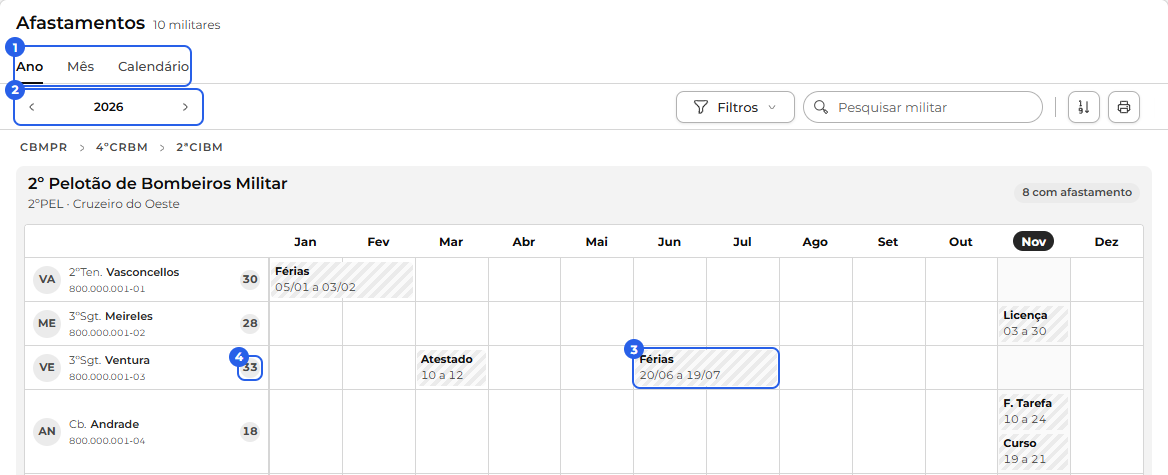
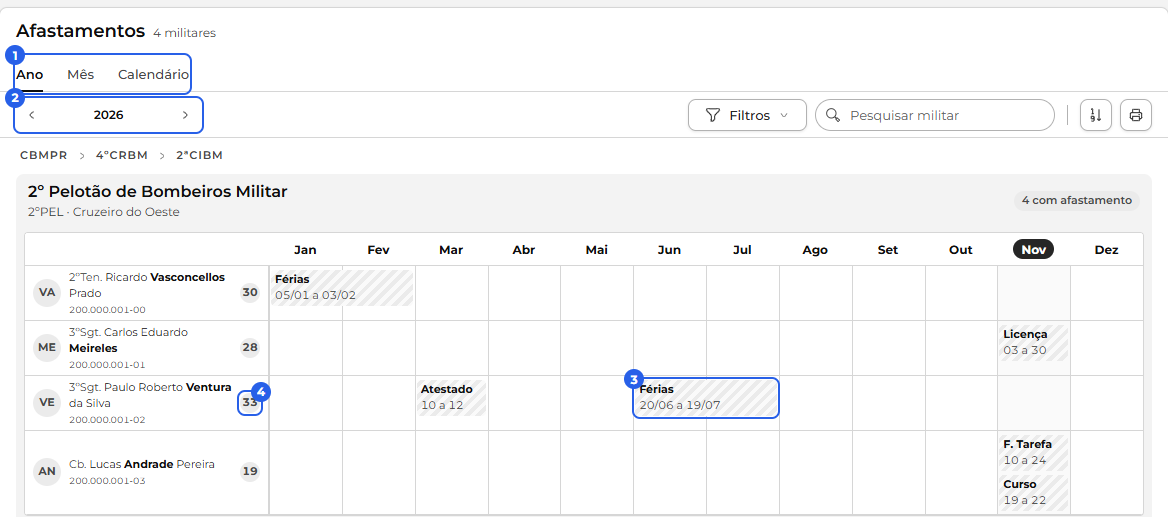
1

diff --git a/programador.html b/programador.html
@@ -2358,7 +2358,7 @@
                 <li>O respiro do topo é fixo, acima da rolagem (<code>.pagina-corpo--camada</code> com <code>padding-top</code> da variável <code>--respiro-topo</code>; o <code>.pagina-corpo-rolagem</code> não tem), então a trilha cola sempre no mesmo ponto. Com a árvore à mostra, o componente baixa esse respiro para <strong>8px</strong> (regra <code>:has()</code> em <code>geral-arvore-unidades.css</code>): 10px da linha de cima até o texto da trilha e 10px dele até o primeiro bloco; as outras abas da mesma camada seguem com 16px.</li>
                 <li><strong>Usuários:</strong> cada militar é uma <code>.linha-militar</code> (<code>.usuario-item</code>) num bloquinho: graduação + nome, o identificador na coluna (CPF, RG, telefone ou e-mail; 112px) e os selos no fim (128px: correção pendente e a situação, "Ativo" <code>--sucesso</code> ou "Férias até DD/MM" <code>--alerta</code>), vindos do efetivo (<code>buscar_efetivo</code>), ou o aviso <code>.usuario-vazio</code> ("Nenhum militar com os filtros atuais.") quando a unidade tem gente mas os filtros não deixam ninguém; unidade sem ninguém fica só com o título. Os filtros de graus e situação ficam no botão Filtros (árvore de caixas com o "Todos" acima de uma divisória, grupos em sanfona e o estado parcial, reusando <code>.caixa-selecao</code> e <code>.arvore-seta</code>), mais a busca, que marca ou filtra. No celular (bloco do fim do <code>usuarios-cards.css</code>), a linha vira duas (grade): graduação + nome e os selos em cima, o identificador embaixo, na largura toda (quebra se for comprido, como o e-mail); altura mínima do toque (<code>--toque-altura-celular</code>, 44px), sem as larguras mínimas das colunas; o nome completo (Exibir) quebra a linha em vez de cortar.</li>
                 <li>Folgas › Equipe usa a mesma linha (o saldo no fim); Trocas › Todas e Histórico põem os seus itens em bloquinhos ou cartões no bloco. A Antiguidade usa os bloquinhos com título (ver Peças de cada tela).</li>
-                <li><strong>Afastamentos</strong> (16/11/2026; <code>css/afastamentos.css</code>): no Ano e no Mês, a árvore vai na <strong>largura toda</strong> (<code>.afastamentos-arvore</code>: sem a largura de leitura, <code>min-width: min-content</code>) e, quando a grade não cabe, rola para o lado <strong>por dentro</strong> do corpo (<code>overflow-x: auto</code> no <code>.pagina-corpo-rolagem</code>), nunca a página; dentro de cada bloco, a grade da unidade (ver Grade da escala). No Calendário, o calendário fica no lugar do corpo da árvore (<code>#afastamentos-calendario</code>), com a trilha e o seletor da árvore no alto. Com o rodapé largo à vista, o corpo ganha a folga dele embaixo (49px, <code>.afastamentos-corpo</code>). <strong>No celular</strong>, o Ano e o Mês são a lista: a <code>.linha-militar</code> (<code>.afastamentos-item</code>) com o militar no alto e, embaixo, um afastamento do período por linha (<code>.afastamentos-item-pilha</code> e <code>-linha</code>, 4px entre elas, alinhadas pela esquerda, o texto quebra em vez de cortar), com o selo dos dias.</li>
+                <li><strong>Afastamentos</strong> (16/11/2026; <code>css/afastamentos.css</code>): no Ano e no Mês, a árvore vai na <strong>largura toda</strong> (<code>.afastamentos-arvore</code>: sem a largura de leitura, <code>min-width: min-content</code>) e, quando a grade não cabe, rola para o lado <strong>por dentro</strong> do corpo (<code>overflow-x: auto</code> no <code>.pagina-corpo-rolagem</code>), nunca a página; dentro de cada bloco, a grade da unidade (ver Grade da escala). No Calendário, o calendário fica no lugar do corpo da árvore (<code>#afastamentos-calendario</code>), com a trilha e o seletor da árvore no alto. Com o rodapé largo à vista, o corpo ganha a folga dele embaixo (49px, <code>.afastamentos-corpo</code>). <strong>No celular</strong>, o Ano e o Mês são a lista: a <code>.linha-militar</code> (<code>.afastamentos-item</code>) com o militar no alto e, embaixo, um afastamento do período por linha (<code>.afastamentos-item-pilha</code> e <code>-linha</code>, 4px entre elas, alinhadas pela esquerda, o texto quebra em vez de cortar), com o selo dos dias. Desde 25/11/2026, cada militar fica separado do próximo por uma linha fina (<code>border-top: 1px solid var(--borda)</code>, sem o raio), com 8px em cima e embaixo, e o nome de quem não tem afastamento fica no meio da altura de toque (<code>align-content: center</code>, 44px); o militar é o posto e o nome completo, com o de guerra em negrito (ver A grade dos Afastamentos), e o nome comprido quebra embaixo do posto (<code>.linha-militar-pessoa</code> em bloco); o afastamento vem em <code>--texto-suave</code> e o selo dos dias fica à direita, numa coluna (<code>justify-content: space-between</code>).</li>
               </ul>
             </div>
           </section>
@@ -2439,7 +2439,7 @@
                 <li><strong>Militares:</strong> linhas = militares, colunas = os dias do mês todo (do dia 1º ao último, desde 15/11/2026; as setas andam de mês em mês). Cada unidade escolhida é um bloco cinza com a linha-título em cima (nome completo + cidade, no cinza) e os militares numa tabela branca dentro; o título recolhe e abre os militares (por antiguidade). A linha do militar tem o avatar de iniciais (<code>--fundo-medio</code> + <code>--texto-suave</code>) + graduação + nome de guerra e, abaixo, o CPF (9px, a exceção da microetiqueta). Coluna do militar fixa à esquerda (244px, com o selo dos dias), cabeçalho dos dias fixo (hoje num círculo escuro, fim de semana sombreado). <strong>Sombra da coluna parada</strong> (15/11/2026): com a grade rolada para o lado, uma faixa de 16px (<code>::after</code>) colada à direita do canto, de cada linha do militar e do rótulo dos totais (o título da unidade fica sem, porque o nome dele passa da coluna), com <code>--sombra-coluna</code>; aparece com a classe <code>.escala-mil--rolada</code> (opacidade em 0.15s ease-out, some em 0.1s; parada no <code>prefers-reduced-motion</code>). Cada dia = <code>minmax(72px, 1fr)</code> (15/11/2026; antes, 60px), a largura do selo com o ícone e o horário numa linha só, dentro da célula; as colunas não têm número fixo (<code>grid-auto-columns</code> + <code>grid-auto-flow: column</code>), e o que não cabe rola para o lado dentro da grade. Camadas internas de 1 a 6. No celular, a coluna do militar tem 136px (o CPF numa linha só), sem o avatar, e cada dia, o mesmo <code>minmax(72px, 1fr)</code> do computador: os dias rolam para o lado, e o nome fica.</li>
                 <li>Célula do Militares: de serviço = chip de destaque (<code>.escala-mil-servico</code>, <code>--fundo-contraste</code> + <code>--texto-invertido</code>) com o ícone da origem (<code>.escala-mil-servico-origem</code>, 11px, em todo horário desde 15/11/2026: o mesmo do Mês, pela origem de cada horário; no trocado, o da troca; na página Sobreaviso, o telefone <code>.escala-mil-servico-sobreaviso</code> no mesmo lugar) + hora de início + ícone de seta (<code>icone-seta-direita-longa</code>) + fim, sem "h" (vários empilhados na disponibilidade quebrada), com recuo <code>0 4px</code> e vão de 2px; os números descem 1px (<code>margin-top: 2px</code>), e a tinta deles fica no meio do selo, na linha da seta e do ícone; afastado = chip listrado "FÉR" (<code>.escala-mil-afast</code>, <code>title</code> "Férias até DD/MM"); o dia de autorização de viagem (22/11/2026) = o mesmo chip, "VIA", sem as faixas e com a borda fina por dentro (<code>.escala-mil-afast--viagem</code>: <code>box-shadow: inset 0 0 0 1px var(--borda-forte)</code>; molde <code>#tpl-escala-mil-viagem</code>, só com o filtro dela); folga = vazia. Ao pé de cada unidade, a linha "Efetivo de serviço" (quantos de serviço por dia). A busca no canto direito filtra por nome e graduação (sem acento), esconde quem não casa e a unidade sem ninguém, revela as recolhidas e esconde os totais durante a busca; sem resultado, "Nenhum militar encontrado.". A Legenda do Militares mostra as amostras já com o ícone (Serviço, Extrajornada e Trocado) e o grupo <strong>Origem do serviço</strong>, o mesmo do painel do dia.</li>
                 <li><strong>Selo dos dias do Militares</strong> (15/11/2026; <code>.escala-mil-pessoa-dias</code>, números pelo <code>escalas-militares-dias.js</code>): à direita do nome, encostado (<code>margin-left: auto</code>), um círculo de 20px (<code>border-radius: 50%</code>, o mesmo do número do dia do cabeçalho), fundo <code>--fundo-medio</code> e número <code>--texto-suave</code> (o cinza do avatar, para não competir com os horários escuros), 11px em negrito com números da mesma largura; cabe "88" e mostra o 0. Diz em quantos dias do mês o militar tem um horário à vista que não é riscado. O botão Filtros vale nesta aba (escondido no Sobreaviso e nos Estágios): os horários e os afastamentos das situações desmarcadas somem, e o selo e a linha "Efetivo de serviço" contam só o que ficou. Na Legenda da aba, o grupo "Militar" usa a mesma classe na amostra.</li>
-                <li><strong>A grade dos Afastamentos</strong> (16/11/2026; a barra do Ano e a borda tracejada desde 22/11/2026; <code>css/afastamentos.css</code>, por cima das peças do Militares, <code>escalas-militares.css</code>): a mesma linha do militar (coluna de 244px com as iniciais, o grau, o nome, o CPF e o selo dos dias), que abre o painel dele (<code>.afastamentos-pessoa</code>: hover <code>--fundo-suave</code>, escolhida <code>--fundo-medio</code>, achada pela busca em <code>--fundo-contraste</code> com o texto <code>--texto-invertido</code>). <strong>Ano:</strong> 12 colunas de no mínimo 72px; o cabeçalho preso abaixo do título do bloco; o nome do mês é um botão (<code>.afastamentos-mes-nome</code>, 12px, peso 700, <code>--raio-total</code>, hover <code>--fundo-medio</code>), o de hoje no escuro (<code>--fundo-contraste</code> e <code>--texto-invertido</code>), com a coluna em <code>--fundo-suave</code>. A célula (<code>.afastamentos-celula</code>, 40px por faixa mais 4px, sem folga por dentro) fica embaixo das barras e só é clicável para quem administra o militar (<code>--clicavel</code>). Cada afastamento é uma <strong>barra</strong> (a mesma do Mês, abaixo) do primeiro ao último mês que ele toca no ano, na linha <code>.afastamentos-linha-ano</code>, com o nome e as datas inteiras (<code>textoDatas</code>: só a data de outro ano leva o ano, "23/11 a 01/01/2027"); o que fica todo num mês só mostra só os dias, porque o mês é a coluna ("10 a 12"). O selo (<code>.afastamentos-selo</code>) é o listrado do afastado (faixas de 4px em <code>--fundo-suave</code> e <code>--fundo-medio</code>, a -45°), <code>--raio-pequeno</code>, com o nome (11px, peso 700, <code>--texto-forte</code>, corta com reticências) e as datas (11px, <code>--texto-suave</code>, números tabulares; as que não cabem, como a de um mês só que vem de outro ano, cortam com reticências e ficam inteiras na dica); o que não foi salvo leva a <strong>borda tracejada</strong> da Escala, por dentro (<code>outline: 2px dashed var(--texto-forte)</code>, <code>outline-offset: -2px</code>; nunca no <code>::after</code>, que é o da dica), menos no hover e com a caixa aberta nele, que têm a borda deles. <strong>A autorização de viagem</strong> (22/11/2026; <code>.afastamentos-selo--viagem</code>): o mesmo selo <strong>sem o listrado</strong>, com a borda fina por dentro (<code>box-shadow: inset 0 0 0 1px var(--borda-forte)</code>; não salva, a borda fina e a tracejada juntas) e o ícone do mapa antes do nome (<code>.afastamentos-selo-icone</code>, 10px, <code>margin-right</code> 4px, um pixel abaixo da linha); no calendário, a linha <code>.linha-escalado--viagem</code> com o ícone à mostra (a do afastado esconde os ícones). Os <strong>Destinos</strong> (molde <code>#tpl-afastamento-destinos</code>, na caixa 2 e no painel): a lista <code>.afastamento-destinos</code> (coluna, gap 8px), cada destino numa linha <code>.afastamento-destino</code> (o campo <code>.campo-entrada</code> que estica e, ao lado, o X <code>.botao-discreto</code> com <code>icone-fechar</code> 14px, o mesmo das partes do horário; a lixeira fica só no alto, para a autorização inteira) e o <code>.botao</code> Adicionar destino que não estica (<code>.afastamento-destinos-adicionar</code>, 8px acima); sem destino, a borda vermelha do <code>.campo--erro</code> e a nota de sempre. <strong>Mês</strong> (<code>.afastamentos-grade--mes</code>): os dias em colunas de no mínimo 28px (o mês inteiro cabe a 1366 sem rolar), o dia do cabeçalho com a sigla em cima do número (molde <code>#tpl-escala-mil-dia</code>: hoje no círculo escuro, fim de semana sombreado). No Mês, a barra mostra as datas inteiras, sempre com o dia e o mês (<code>textoDatas</code> com o <code>anoCurto</code>: só a data de outro ano leva o ano, com 2 dígitos, "18/12 a 14/02/27"; em janeiro de 2027, "18/12/26 a 14/02"); a de 3 dias, a 1366, corta com reticências. A barra (<code>.afastamentos-barra</code>, o mesmo selo, no Ano e no Mês, pelo <code>desenharBarras</code>; a linha <code>.afastamentos-linha-ano</code> ou <code>-mes</code> com <code>position: relative</code>) fica por cima das células, em <code>position: absolute</code> na grade da linha, da coluna do primeiro ao último dia ou mês (<code>grid-column: var(--barra-coluna) / span var(--barra-dias)</code>; no Ano, <code>--barra-dias</code> conta os meses), com 36px de altura e 2px de folga de cada lado; a coluna do militar passa por cima dela ao rolar. Dois que se cruzam (no Ano, os que tocam o mesmo mês) vão em faixas de 40px (<code>--barra-faixa</code>), e a linha cresce uma faixa por afastamento (<code>--faixas</code>); as quatro são dado da tela. A barra clicável ganha o contorno de 1px <code>--foco</code> no hover; no Mês, a de 1 ou 2 dias (<code>--curta</code>) esconde o nome e os dias, que ficam na dica. <strong>Calendário:</strong> o <code>geral-calendario-mes</code> da Escala com <code>unidadesPorDia</code>; em cada dia, o bloquinho da unidade (<code>.escala-calendario-unidade.afastamentos-bloco</code>; para quem não administra, <code>--leitura</code>, sem o hover) com a linha de cada afastado (<code>.afastamentos-linha</code>, a <code>.linha-escalado--afastamento</code> da Escala com 20px): sem riscar e sem os ícones, o nome em <code>--texto</code> e o nome do afastamento à direita em <code>--texto-forte</code>; hover com o contorno de 1px <code>--foco</code>; a achada pela busca no escuro da Escala, sem o listrado; a que não foi salva com a borda tracejada (a mesma do selo, fora do hover e da caixa aberta).</li>
+                <li><strong>A grade dos Afastamentos</strong> (16/11/2026; a barra do Ano e a borda tracejada desde 22/11/2026; <code>css/afastamentos.css</code>, por cima das peças do Militares, <code>escalas-militares.css</code>): a mesma linha do militar (coluna de 244px com as iniciais, o grau, o nome, o CPF e o selo dos dias), que abre o painel dele. O nome é o <strong>nome completo</strong> (25/11/2026), em peso 400, com o <strong>nome de guerra em negrito</strong> (<code>.afastamentos-nome-guerra</code>, peso 700, <code>--texto-forte</code>, molde <code>#tpl-afastamentos-nome-guerra</code>, preenchido pelo <code>preencherNome</code> do <code>afastamentos-grade.js</code>, que acha o de guerra dentro do completo pelas palavras inteiras, sem diferença de maiúscula; sem ele dentro, fica só o de guerra); o grau e o nome correm como uma frase (<code>.escala-mil-pessoa-topo</code> em bloco, 11px) e o que não cabe passa para a linha de baixo, embaixo do grau, nunca cortado; na linha achada pela busca, o negrito também vai para o <code>--texto-invertido</code>. A linha do militar (<code>.afastamentos-pessoa</code>: hover <code>--fundo-suave</code>, escolhida <code>--fundo-medio</code>, achada pela busca em <code>--fundo-contraste</code> com o texto <code>--texto-invertido</code>). <strong>Ano:</strong> 12 colunas de no mínimo 72px; o cabeçalho preso abaixo do título do bloco; o nome do mês é um botão (<code>.afastamentos-mes-nome</code>, 12px, peso 700, <code>--raio-total</code>, hover <code>--fundo-medio</code>), o de hoje no escuro (<code>--fundo-contraste</code> e <code>--texto-invertido</code>), com a coluna em <code>--fundo-suave</code>. A célula (<code>.afastamentos-celula</code>, 40px por faixa mais 4px, sem folga por dentro) fica embaixo das barras e só é clicável para quem administra o militar (<code>--clicavel</code>). Cada afastamento é uma <strong>barra</strong> (a mesma do Mês, abaixo) do primeiro ao último mês que ele toca no ano, na linha <code>.afastamentos-linha-ano</code>, com o nome e as datas inteiras (<code>textoDatas</code>: só a data de outro ano leva o ano, "23/11 a 01/01/2027"); o que fica todo num mês só mostra só os dias, porque o mês é a coluna ("10 a 12"). O selo (<code>.afastamentos-selo</code>) é o listrado do afastado (faixas de 4px em <code>--fundo-suave</code> e <code>--fundo-medio</code>, a -45°), <code>--raio-pequeno</code>, com o nome (11px, peso 700, <code>--texto-forte</code>, corta com reticências) e as datas (11px, <code>--texto-suave</code>, números tabulares; as que não cabem, como a de um mês só que vem de outro ano, cortam com reticências e ficam inteiras na dica); o que não foi salvo leva a <strong>borda tracejada</strong> da Escala, por dentro (<code>outline: 2px dashed var(--texto-forte)</code>, <code>outline-offset: -2px</code>; nunca no <code>::after</code>, que é o da dica), menos no hover e com a caixa aberta nele, que têm a borda deles. <strong>A autorização de viagem</strong> (22/11/2026; <code>.afastamentos-selo--viagem</code>): o mesmo selo <strong>sem o listrado</strong>, com a borda fina por dentro (<code>box-shadow: inset 0 0 0 1px var(--borda-forte)</code>; não salva, a borda fina e a tracejada juntas) e o ícone do mapa antes do nome (<code>.afastamentos-selo-icone</code>, 10px, <code>margin-right</code> 4px, um pixel abaixo da linha); no calendário, a linha <code>.linha-escalado--viagem</code> com o ícone à mostra (a do afastado esconde os ícones). Os <strong>Destinos</strong> (molde <code>#tpl-afastamento-destinos</code>, na caixa 2 e no painel): a lista <code>.afastamento-destinos</code> (coluna, gap 8px), cada destino numa linha <code>.afastamento-destino</code> (o campo <code>.campo-entrada</code> que estica e, ao lado, o X <code>.botao-discreto</code> com <code>icone-fechar</code> 14px, o mesmo das partes do horário; a lixeira fica só no alto, para a autorização inteira) e o <code>.botao</code> Adicionar destino que não estica (<code>.afastamento-destinos-adicionar</code>, 8px acima); sem destino, a borda vermelha do <code>.campo--erro</code> e a nota de sempre. <strong>Mês</strong> (<code>.afastamentos-grade--mes</code>): os dias em colunas de no mínimo 28px (o mês inteiro cabe a 1366 sem rolar), o dia do cabeçalho com a sigla em cima do número (molde <code>#tpl-escala-mil-dia</code>: hoje no círculo escuro, fim de semana sombreado). No Mês, a barra mostra as datas inteiras, sempre com o dia e o mês (<code>textoDatas</code> com o <code>anoCurto</code>: só a data de outro ano leva o ano, com 2 dígitos, "18/12 a 14/02/27"; em janeiro de 2027, "18/12/26 a 14/02"); a de 3 dias, a 1366, corta com reticências. A barra (<code>.afastamentos-barra</code>, o mesmo selo, no Ano e no Mês, pelo <code>desenharBarras</code>; a linha <code>.afastamentos-linha-ano</code> ou <code>-mes</code> com <code>position: relative</code>) fica por cima das células, em <code>position: absolute</code> na grade da linha, da coluna do primeiro ao último dia ou mês (<code>grid-column: var(--barra-coluna) / span var(--barra-dias)</code>; no Ano, <code>--barra-dias</code> conta os meses), com 36px de altura e 2px de folga de cada lado; a coluna do militar passa por cima dela ao rolar. Dois que se cruzam (no Ano, os que tocam o mesmo mês) vão em faixas de 40px (<code>--barra-faixa</code>), e a linha cresce uma faixa por afastamento (<code>--faixas</code>); as quatro são dado da tela. A barra clicável ganha o contorno de 1px <code>--foco</code> no hover; no Mês, a de 1 ou 2 dias (<code>--curta</code>) esconde o nome e os dias, que ficam na dica. <strong>Calendário:</strong> o <code>geral-calendario-mes</code> da Escala com <code>unidadesPorDia</code>; em cada dia, o bloquinho da unidade (<code>.escala-calendario-unidade.afastamentos-bloco</code>; para quem não administra, <code>--leitura</code>, sem o hover) com a linha de cada afastado (<code>.afastamentos-linha</code>, a <code>.linha-escalado--afastamento</code> da Escala com 20px): sem riscar e sem os ícones, o nome em <code>--texto</code> e o nome do afastamento à direita em <code>--texto-forte</code>; hover com o contorno de 1px <code>--foco</code>; a achada pela busca no escuro da Escala, sem o listrado; a que não foi salva com a borda tracejada (a mesma do selo, fora do hover e da caixa aberta).</li>
                 <li><strong>Os grupos da célula</strong> (15/11/2026; <code>escalas-celula-grupos.js</code>, CSS em <code>escalas-mes.css</code>; molde <code>#tpl-escala-grupo</code>): cada grupo (Guarnição · Trocas · Pontual · Remanejados · Extrajornada · Estágio · Sobreaviso · Operação Verão · Fora da escala) é uma <code>.escala-grupo</code> (<code>flex</code> em coluna, <code>data-grupo</code> com a chave) com as linhas da grade de sempre. Em cima de cada grupo, a <code>.escala-grupo-linha</code>: uma faixa de 9px (<code>padding 4px 0</code>) com o traço <code>1px dashed var(--borda)</code> no meio, que leva a dica do grupo de baixo (<code>data-dica</code>, os nomes em <code>mensagens.escala.grupoCelula</code>) e cujo clique é do dia, como o espaço vazio da célula. Só aparece depois de um grupo à vista (<code>.escala-grupo:has(...) ~ .escala-grupo &gt; .escala-grupo-linha</code>); o grupo sem linha à vista some (<code>:not(:has(...))</code>), também pelo filtro. <strong>O Fora da escala</strong> (<code>escalas-celula-fora.js</code>): o <code>icone-remover-usuario</code> no lugar do ícone da origem; o nome em <code>--erro</code> (<code>.linha-escalado--fora-vermelho</code>, devia estar na escala) ou em <code>--alerta</code> (<code>.linha-escalado--fora-aviso</code>, voltou de um afastamento ou saiu pelo Remover da guarnição há até 5 dias), os dois com "Fora da escala" no lugar do horário (o vermelho com a entrada marcada, "Entra em DD/MM"); para quem administra o dia, o clique no nome abre a caixa flutuante com Adicionar neste dia, Adicionar à guarnição e Abrir o painel do dia. A linha com a entrada marcada (<code>data-entra</code>, 22/11/2026) também abre a caixa, e nela (<code>#tpl-escala-celula-fora</code>) o Adicionar à guarnição dá lugar ao <strong>Mudar a entrada na guarnição</strong> (<code>icone-origem-base</code>, com a seta) e ao <strong>Cancelar a entrada na guarnição</strong>, por último, em vermelho (<code>.dropdown-item--perigo</code>, <code>icone-origem-saida</code>), os mesmos do primeiro serviço. No PDF das grades (<code>escalas-impressao-grade-celula.js</code>), a mesma linha tracejada (0,4pt) entre os grupos.</li>
                 <li><strong>O título de um posto na célula</strong> (19/11/2026; <code>.escala-mes-posto</code> em <code>escalas-mes.css</code>, molde <code>#tpl-escala-mes-posto</code> do <code>index.html</code>, montado pelo <code>RosterWork.escalasCelulaGrupos.tituloPosto</code>): o nome do posto em 11px, peso 600, caixa alta, <code>letter-spacing 0.44px</code>, <code>--texto-suave</code>, <code>padding 2px 0 2px 2px</code>, numa linha só, com as linhas do posto embaixo. Do segundo título em diante (<code>.escala-mes-posto ~ .escala-mes-posto</code>), a linha tracejada dos grupos em cima (<code>::before</code>, <code>1px dashed var(--borda)</code>, <code>margin 4px 0</code>) e o <code>padding-top</code> zerado. O Sem posto (N) com <code>.escala-mes-posto--sem</code>, em <code>--alerta</code>, por último. Usado na Op. Verão (os guarda-vidas por posto) e nos Estágios (os estagiários por viatura ou instalação); a Escala não tem.</li>
                 <li><strong>A dica do militar na grade</strong> (12/11/2026; <code>escalas-celula-dica.js</code>): o <code>data-dica</code> comum (<code>geral-dica</code>) no nome, com uma frase por linha (o porquê da linha na escala); a dica de várias linhas mede a própria altura para escolher se abre em cima ou embaixo. <strong>O motivo da folga</strong> (molde <code>#tpl-escala-folga-motivo</code>): o <code>.campo</code> comum, com o <code>.campo-rotulo</code> "Motivo (opcional)" e o <code>.campo-entrada</code> (<code>maxlength 120</code>), embaixo das respostas do banco de horas, com <code>padding-top 4px</code> (<code>.escala-folga-motivo</code>, em <code>escalas-painel-edicao.css</code>).</li>

diff --git a/manual.html b/manual.html
@@ -2773,9 +2773,9 @@
               <p>Nos dias do afastamento, o militar sai dos serviços. Conforme o afastamento, ele sai também das trocas, da extrajornada e do sobreaviso: as férias tiram de tudo; a Op. Verão, a da unidade, deixa trocar, tirar extra e ficar de sobreaviso; o Litoral, a Op. Verão no litoral, tira de tudo; e a F. Tarefa, em geral, deixa trocar e tirar extra. Os dias da praia ficam na página Op. Verão (veja <strong>A Operação Verão</strong>, na Escala).</p>
               <p><strong>A dica.</strong> Parando o mouse num afastamento (no celular, segurando o dedo), a dica mostra o nome e as datas e, embaixo, o que ele tira nesses dias, com a caixa marcada no que ele sai: <strong>Sai da escala</strong>, <strong>Sai da guarnição</strong>, <strong>Sai das trocas e do serviço avulso</strong>, <strong>Sai da extrajornada</strong> e <strong>Sai do sobreaviso</strong>. Na Escala, a dica do militar afastado mostra o mesmo.</p>
               <p><strong>A autorização de viagem.</strong> Não é um afastamento: é a autorização para o militar viajar nos dias de folga. Nesses dias ele só sai do sobreaviso; continua na escala, nas trocas e na extrajornada, e os dias não contam como afastado. Na grade, ela aparece com o nome <strong>Viagem</strong>, sem o listrado e com o ícone do mapa, e a dica diz as datas e os destinos. Na Escala, ela aparece com o filtro <strong>Incluir autorizações de viagem</strong>.</p>
-              <p><strong>Ano.</strong> Embaixo do título ficam as abas <strong>Ano</strong>, <strong>Mês</strong> e <strong>Calendário</strong> (1). No Ano e no Mês, as unidades escolhidas no seletor aparecem na árvore de unidades, e cada uma traz o seu efetivo numa grade, um militar por linha. No Ano, cada mês é uma coluna, com o mês de hoje em destaque, e cada afastamento aparece numa barra listrada, do primeiro ao último mês dele, com o nome e as datas (3); o que fica todo num mês só mostra só os dias. A data de outro ano leva o ano, e dois afastamentos no mesmo mês ficam um embaixo do outro. Ao lado do nome do militar, o número diz quantos dias ele ficou afastado no ano (4). Um clique no nome do mês, no alto da grade, abre <strong>Ver o mês</strong> e <strong>Ver o calendário</strong>, que levam àquele mês.</p>
+              <p><strong>Ano.</strong> Embaixo do título ficam as abas <strong>Ano</strong>, <strong>Mês</strong> e <strong>Calendário</strong> (1). No Ano e no Mês, as unidades escolhidas no seletor aparecem na árvore de unidades, e cada uma traz o seu efetivo numa grade, um militar por linha, com o posto e o nome completo, e o nome de guerra em negrito. No Ano, cada mês é uma coluna, com o mês de hoje em destaque, e cada afastamento aparece numa barra listrada, do primeiro ao último mês dele, com o nome e as datas (3); o que fica todo num mês só mostra só os dias. A data de outro ano leva o ano, e dois afastamentos no mesmo mês ficam um embaixo do outro. Ao lado do nome do militar, o número diz quantos dias ele ficou afastado no ano (4). Um clique no nome do mês, no alto da grade, abre <strong>Ver o mês</strong> e <strong>Ver o calendário</strong>, que levam àquele mês.</p>
               <figure class="manual-figura manual-figura--cheia">
-                <img src="manual/imagens/afastamentos-ano.png" width="1168" height="475" alt="A aba Ano: as abas Ano, Mês e Calendário (1), o ano na barra (2), as férias de 20/06 a 19/07 do 3ºSgt. Ventura numa barra de junho a julho (3) e os dias que ele ficou afastado no ano (4)." />
+                <img src="manual/imagens/afastamentos-ano.png" width="1168" height="517" alt="A aba Ano: as abas Ano, Mês e Calendário (1), o ano na barra (2), cada militar com o nome completo e o nome de guerra em negrito, as férias de 20/06 a 19/07 do 3ºSgt. Paulo Roberto Ventura da Silva numa barra de junho a julho (3) e os dias que ele ficou afastado no ano (4)." />
                 <figcaption>
                   <ol class="manual-chamadas">
                     <li>As abas Ano, Mês e Calendário</li>
@@ -2787,7 +2787,7 @@
               </figure>
               <p><strong>Mês.</strong> Cada dia do mês é uma coluna, com o dia de hoje no círculo escuro e o fim de semana sombreado. Cada afastamento é uma barra, do primeiro ao último dia dele no mês (2), com o nome e as datas: sempre o dia e o mês, e o ano só quando a data é de outro ano (por exemplo, "18/12 a 14/02/27"). Dois afastamentos do mesmo militar que se cruzam ficam um embaixo do outro (3). O afastamento de um ou dois dias mostra só o listrado; o nome e as datas aparecem ao passar o mouse.</p>
               <figure class="manual-figura manual-figura--cheia">
-                <img src="manual/imagens/afastamentos-mes.png" width="1168" height="445" alt="A aba Mês: o mês na barra (1), a licença do 3ºSgt. Meireles numa barra do dia 3 ao 30 (2) e os dois afastamentos do Cb. Andrade que se cruzam, um embaixo do outro (3)." />
+                <img src="manual/imagens/afastamentos-mes.png" width="1168" height="478" alt="A aba Mês: o mês na barra (1), a licença do 3ºSgt. Carlos Eduardo Meireles numa barra do dia 3 ao 30 (2) e os dois afastamentos do Cb. Lucas Andrade Pereira que se cruzam, um embaixo do outro (3)." />
                 <figcaption>
                   <ol class="manual-chamadas">
                     <li>O mês</li>
@@ -2809,7 +2809,7 @@
               <p><strong>O período.</strong> Na barra, à esquerda, fica o ano (no Ano) ou o mês (no Mês e no Calendário). As setas passam para o anterior e o seguinte, e um clique no nome abre a lista dos anos ou o calendário de escolher o mês. Fora de hoje aparece o botão <strong>Hoje</strong>, que volta.</p>
               <p><strong>Filtrar e procurar.</strong> O botão <strong>Filtros</strong> tem <strong>Situação</strong> (quem tem ou não tem afastamento no ano ou no mês; não aparece no Calendário) e <strong>Afastamento</strong>, com os nomes do período: escolhido um nome, ficam só os afastamentos com ele, e quem não tem continua à vista, para ajudar a planejar. No período sem nenhum afastamento, a coluna Afastamento não aparece. Os filtros ficam guardados quando você sai da página e volta. A busca e o botão <strong>Ordem</strong> funcionam como em Usuários, e a ordem escolhida vale nas duas páginas.</p>
               <p><strong>O painel do militar.</strong> Um clique no militar abre o painel dele à direita, com o posto, o nome, a unidade e o nome completo. No alto do painel fica o ano, que muda pelas setas sem mexer na página, e embaixo o <strong>Resumo do ano</strong>, com os dias de cada afastamento e o total. Depois vem cada afastamento do ano, com as datas e os dias.</p>
-              <p><strong>No celular.</strong> O Ano e o Mês viram uma lista: o militar e, embaixo dele, cada afastamento do período, com os dias. Um toque no militar abre o painel. O Calendário é o da Escala no celular.</p>
+              <p><strong>No celular.</strong> O Ano e o Mês viram uma lista: o militar, com o nome completo e o nome de guerra em negrito, e, embaixo dele, cada afastamento do período, com os dias à direita. Uma linha separa um militar do outro. Um toque no militar abre o painel. O Calendário é o da Escala no celular.</p>
               <p class="manual-nota">Quem não é administrador só consulta. O atestado aparece como "Licença" para quem não administra o militar.</p>
               <h3 id="imprimir-afastamentos">Imprimir os afastamentos</h3>
               <p>No fim da barra, à direita, depois do botão Ordem, fica o botão com o desenho da impressora (1). Ele aparece nas três abas e para todos, e imprime a aba que está na tela.</p>

diff --git a/js/extrajornada-celula.js b/js/extrajornada-celula.js
@@ -95,8 +95,13 @@
       topo: c.tipo === 'pelotao' ? TOPO_PELOTAO : null,
       /* o clique fora, o Esc ou a peça que saiu: o que está no rascunho fica */
       aoFechar: function () { if (a === c) fechar(); },
-      /* no celular, o Voltar da folha: o menu volta */
-      aoVoltar: function () { if (a === c) { c.acao = null; c.botao = null; } }
+      /* no celular, o Voltar da folha: o menu volta, já com os itens que valem agora (como se abrisse de novo) */
+      aoVoltar: function () {
+        if (a !== c) return;
+        c.acao = null;
+        c.botao = null;
+        if (c.tipo === 'nome') prepararMenu(c);
+      }
     });
     if (!c.caixa) a = null;
     soltar(antes);
@@ -143,7 +148,10 @@
 
   var ACOES = {
     horario: function (c, botao) { c.acao = 'horario'; c.botao = botao; desenharHorario(c); },
+    /* o menu parado pode mostrar o item depois de a barra tirar todas as horas dele: aí o menu se acerta e a lista não
+       abre */
     outro: function (c, botao) {
+      if (!podeOutro(c)) { prepararMenu(c); return; }
       c.acao = 'outro'; c.botao = botao;
       c.caixa.segunda(botao, campo(c.uid, c.k, function (x) { porOutro(c, x.cpf); }), textoDo(botao));
     },
@@ -175,13 +183,20 @@
     });
   }
 
-  /* os itens que valem agora (o menu fica o mesmo; só os itens aparecem ou somem): o Mudar o horário, quando a extra se
-     mexe ali; com horário neste pelotão, o Pôr outro (sem o pedido aberto) e o Remover */
+  /* ele tem horário neste pelotão no dia (o Remover vale; o Pôr outro também, sem o pedido aberto) */
+  function temHorario(c) {
+    var v = c.pode ? G().vagaDe(c.cpf, c.k) : null;
+    return !!v && +v.unidade === c.uid && G().blocos(v).length > 0;
+  }
+  function podeOutro(c) { return temHorario(c) && podePor(c.k); }
+
+  /* os itens que valem quando o menu abre (o menu fica o mesmo; só os itens aparecem ou somem, e não mudam enquanto a
+     caixa 2 está aberta): o Mudar o horário, quando a extra se mexe ali; com horário neste pelotão, o Pôr outro (sem o
+     pedido aberto) e o Remover */
   function prepararMenu(c) {
-    var v = c.pode ? G().vagaDe(c.cpf, c.k) : null, tem = !!v && +v.unidade === c.uid && G().blocos(v).length > 0;
     c.menu.querySelector('[data-acao="horario"]').classList.toggle('oculto', !c.pode);
-    c.menu.querySelector('[data-acao="outro"]').classList.toggle('oculto', !(tem && podePor(c.k)));
-    c.menu.querySelector('[data-acao="remover"]').classList.toggle('oculto', !tem);
+    c.menu.querySelector('[data-acao="outro"]').classList.toggle('oculto', !podeOutro(c));
+    c.menu.querySelector('[data-acao="remover"]').classList.toggle('oculto', !temHorario(c));
   }
 
   /* a barra da extra de um militar num dia, para uma caixa (a escolhida, com os campos e o cadeado; sem horário, os campos
@@ -331,8 +346,9 @@
 
   /* ---------- a tela refeita ---------- */
 
-  /* a peça de agora (a tela é refeita a cada mudança): a caixa segue a peça nova e a caixa 2 do horário se refaz; o
-     escolhido no Adicionar ganha a caixa quando aparece, já com a barra */
+  /* a peça de agora (a tela é refeita a cada mudança): a caixa segue a peça nova e a caixa 2 do horário se refaz; com a
+     caixa 2 aberta, o menu fica como abriu (os itens novos fariam a caixa 1 crescer e a caixa 2 andar); o escolhido no
+     Adicionar ganha a caixa quando aparece, já com a barra */
   function acharPeca() {
     procurando = false;
     var c = a;
@@ -350,7 +366,7 @@
     }
     if (!peca) { fechar(); return; }
     c.caixa.trocarPeca(peca, junto);
-    if (c.tipo === 'nome' && c.pode) prepararMenu(c);
+    if (c.tipo === 'nome' && c.pode && !c.acao) prepararMenu(c);
     if (c.acao === 'horario') desenharHorario(c);
   }
 

diff --git a/js/afastamentos-grade.js b/js/afastamentos-grade.js
@@ -39,6 +39,32 @@
   }
   function p2(n) { return (n < 10 ? '0' : '') + n; }
 
+  /* onde o nome de guerra começa dentro do nome completo (as palavras inteiras, sem diferença de maiúscula); -1 se
+     não estiver */
+  function posicaoDaGuerra(completo, guerra) {
+    var c = completo.toLowerCase(), g = guerra.toLowerCase();
+    if (!g) return -1;
+    for (var i = c.indexOf(g); i >= 0; i = c.indexOf(g, i + 1)) {
+      var inicio = i === 0 || c.charAt(i - 1) === ' ';
+      var fim = i + g.length === c.length || c.charAt(i + g.length) === ' ';
+      if (inicio && fim) return i;
+    }
+    return -1;
+  }
+
+  /* o nome completo com o nome de guerra em negrito; sem o de guerra dentro do completo, só o de guerra */
+  function preencherNome(el, p) {
+    var completo = String(p.nome_completo || '');
+    var guerra = String(p.nome_de_guerra || '');
+    var i = posicaoDaGuerra(completo, guerra);
+    if (i < 0) { completo = guerra; i = 0; }
+    var negrito = RW.tpl('tpl-afastamentos-nome-guerra');
+    el.textContent = '';
+    if (!negrito) { el.textContent = completo; return; }
+    negrito.textContent = completo.slice(i, i + guerra.length);
+    el.append(completo.slice(0, i), negrito, completo.slice(i + guerra.length));
+  }
+
   /* "02/10 a 30/11" no ano de referência; a data de outro ano leva o ano ("15/12 a 05/01/2027"; com anoCurto, o ano com
      2 dígitos, "15/12 a 05/01/27") */
   function textoDatas(inicio, fim, ano, anoCurto) {
@@ -148,7 +174,7 @@
     coluna.setAttribute('tabindex', '0');
     linha.querySelector('.escala-mil-avatar').textContent = iniciais(p.nome_de_guerra);
     linha.querySelector('.escala-mil-pessoa-grad').textContent = p.grau_abreviacao || '';
-    linha.querySelector('.escala-mil-pessoa-nome').textContent = p.nome_de_guerra || '';
+    preencherNome(linha.querySelector('.escala-mil-pessoa-nome'), p);
     linha.querySelector('.escala-mil-pessoa-cpf').textContent = formatarCpf(p.usuario_id);
     var dias = linha.querySelector('.escala-mil-pessoa-dias');
     dias.textContent = total ? String(total) : '';
@@ -287,7 +313,7 @@
       var item = RW.tpl('tpl-afastamentos-item');
       if (!item) return;
       item.querySelector('.linha-militar-grad').textContent = p.grau_abreviacao || '';
-      item.querySelector('.linha-militar-nome').textContent = p.nome_de_guerra || '';
+      preencherNome(item.querySelector('.linha-militar-nome'), p);
       var pilha = item.querySelector('.afastamentos-item-pilha');
       c.afastamentos(p).forEach(function (af) {
         var l = RW.tpl('tpl-afastamentos-item-linha');

diff --git a/css/afastamentos.css b/css/afastamentos.css
@@ -97,8 +97,27 @@
 
 .afastamentos-pessoa.linha-militar--marcada .escala-mil-pessoa-grad,
 .afastamentos-pessoa.linha-militar--marcada .escala-mil-pessoa-nome,
+.afastamentos-pessoa.linha-militar--marcada .afastamentos-nome-guerra,
 .afastamentos-pessoa.linha-militar--marcada .escala-mil-pessoa-cpf {
   color: var(--texto-invertido);
+}
+
+/* o nome completo (na coluna do militar e na lista do celular): o resto em peso normal e o nome de guerra em
+   negrito; o nome que não cabe passa para a linha de baixo (embaixo do posto, como numa frase), nunca cortado */
+.afastamentos-pessoa .escala-mil-pessoa-topo {
+  display: block;
+  font-size: 11px;
+}
+
+.afastamentos-pessoa .escala-mil-pessoa-nome,
+.afastamentos-item .linha-militar-nome {
+  font-weight: 400;
+  white-space: normal;
+}
+
+.afastamentos-nome-guerra {
+  font-weight: 700;
+  color: var(--texto-forte);
 }
 
 /* a célula do mês (ou do dia, na grade do mês): as barras passam por cima dela; com dois afastamentos que se cruzam,
@@ -436,19 +455,40 @@
    linha e os dias vão para baixo.
    ============================================================ */
 @media (max-width: 767px) {
+  /* cada militar separado do próximo por uma linha, com o mesmo espaço em cima e embaixo (o nome de quem não tem
+     afastamento fica no meio da altura de toque) */
+  html[data-celular] .afastamentos-item {
+    flex-wrap: wrap;
+    align-content: center;
+    row-gap: 4px;
+    padding-top: 8px;
+    padding-bottom: 8px;
+    border-radius: 0;
+  }
+
+  html[data-celular] .afastamentos-item + .afastamentos-item {
+    border-top: 1px solid var(--borda);
+  }
+
+  /* o nome que não cabe passa para a linha de baixo, embaixo do posto (como na coluna do militar no computador) */
+  html[data-celular] .afastamentos-item > .linha-militar-pessoa {
+    display: block;
+    flex: 1 1 100%;
+  }
+
+  /* os afastamentos embaixo do nome, em cinza, com os dias numa coluna à direita */
   html[data-celular] .afastamentos-item-pilha {
-    grid-column: 1 / -1;
-    grid-row: 2;
-    align-items: flex-start;
+    flex-basis: 100%;
+    align-items: stretch;
   }
 
   html[data-celular] .afastamentos-item-linha {
-    flex-wrap: wrap;
-    justify-content: flex-start;
+    justify-content: space-between;
   }
 
   html[data-celular] .afastamentos-item-texto {
     text-align: left;
+    color: var(--texto-suave);
   }
 
   /* a caixa do mês na folha: o título é o da folha */

diff --git a/afastamentos.html b/afastamentos.html
@@ -136,6 +136,11 @@
   </div>
 </template>
 
+<!-- molde: o nome de guerra, em negrito, dentro do nome completo (a coluna do militar e a lista do celular) -->
+<template id="tpl-afastamentos-nome-guerra">
+  <span class="afastamentos-nome-guerra"></span>
+</template>
+
 <!-- molde: a forma de um afastamento, enquanto a página lê o ano -->
 <template id="tpl-esqueleto-afastamento">
   <span class="esqueleto esqueleto-conjunto afastamentos-forma"></span>
